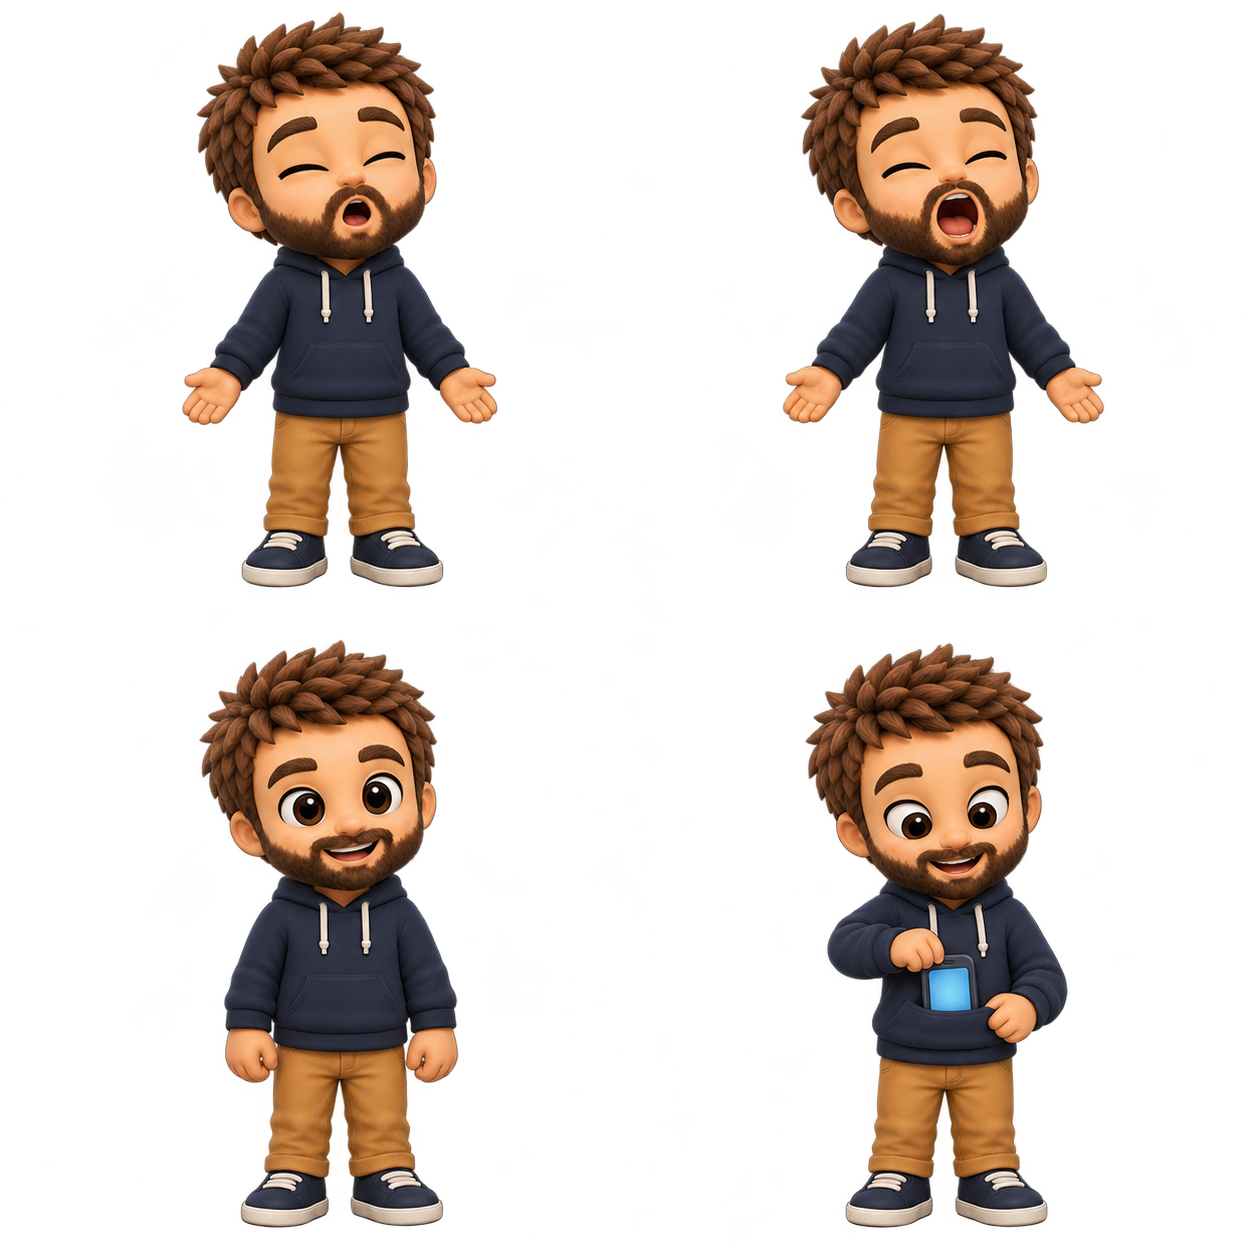
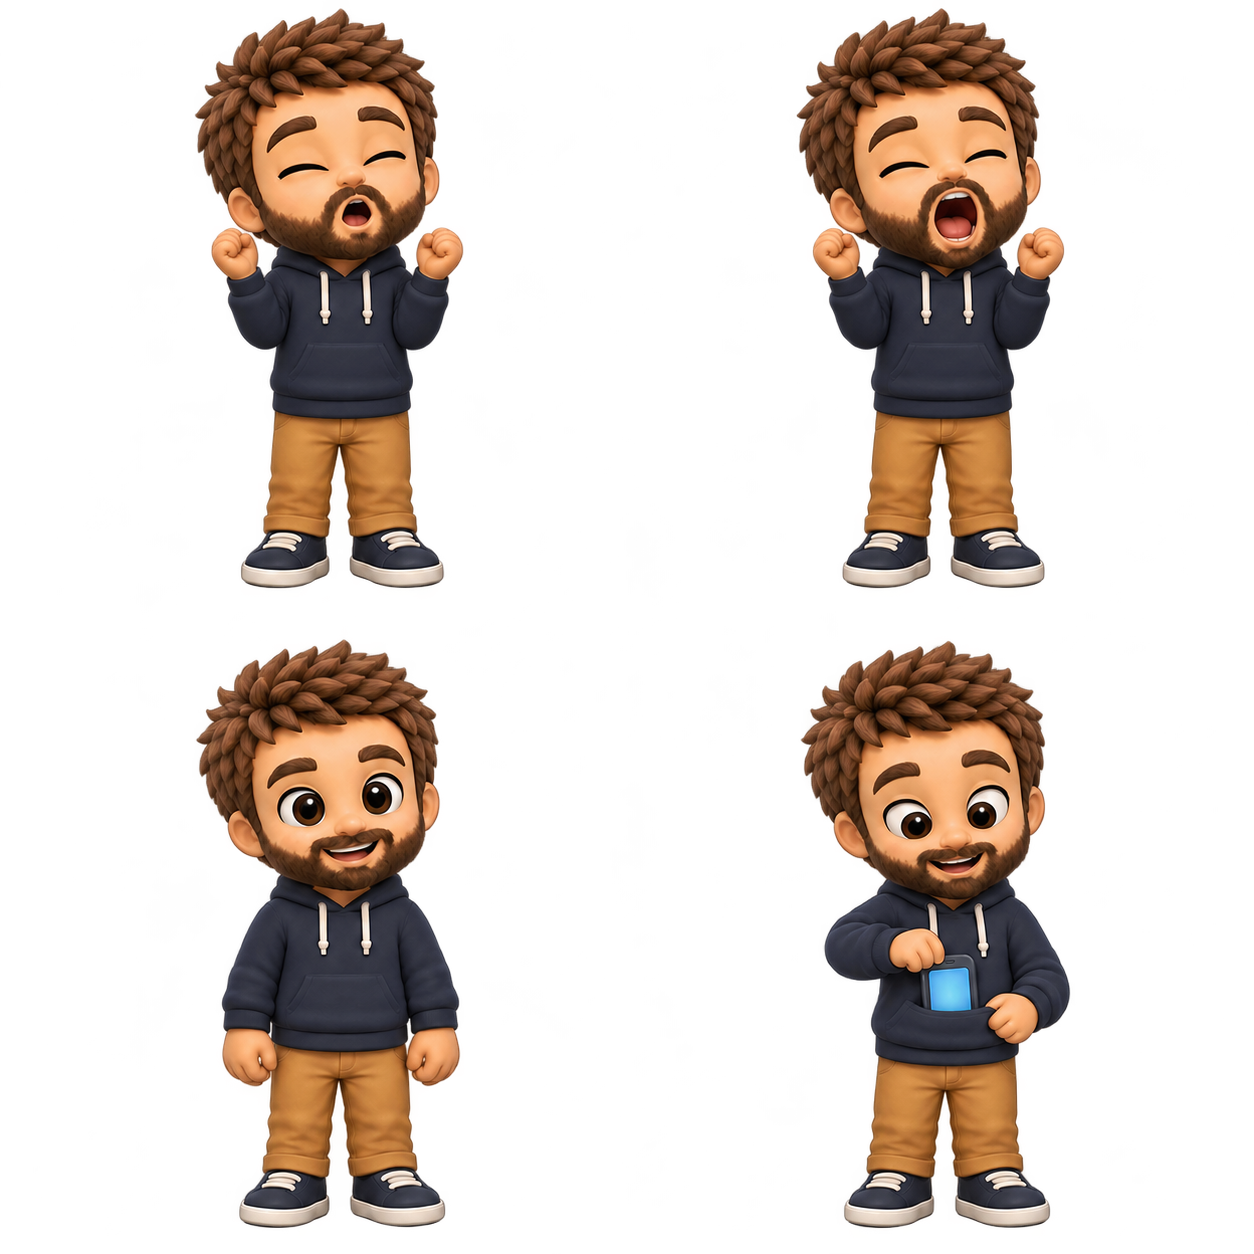
Revise Little Chris ambient stretch sheet

diff --git a/docs/design/provenance.md b/docs/design/provenance.md
@@ -141,6 +141,10 @@ Incident-end A replacement review: 01 and 03 grip the nozzle and aim down-left; 
 
 Ambient B replacement review: both stretch poses have closed eyes and upward tentacles close to head; mouth is much larger in 02. No visible effect marks. Exact bounds and baseline unverified. No retry.
 
[1 lines of base64/hex data omitted]
+
+Little Chris ambient B replacement review: both yawns have hands raised close to head and closed eyes; lower cells preserve poses in intent but are regenerated, not pixel-identical. Exact bounds and baseline unverified. No visible effect marks; no retry.
+
 Both images are 1254×1254 and have alpha channels. Visual review: the helmet in pose 02 is already seated rather than clearly in transit, pose 01 looks forward rather than alert down-left, and pose 00's gaze is not clearly down-left. Helmet-on poses change the apparent head silhouette and scale; the helmet crown and overall bounds require measurement during later packing and review. No runtime frame, baseline, or bounds validation is claimed here. The props sheet places the helmet close to the central cell boundary. No retry or retouch was performed.
 
 Generated on 2026-11-12 using the built-in `image_gen.imagegen` integration under the imagegen skill. The orchestration terminal was launched with `gpt-6.1-sol`; the image integration does not expose its image-model identifier. No alternative model, procedural mascot, downloaded Octocat artwork, official GitHub logo, or credential was used.
